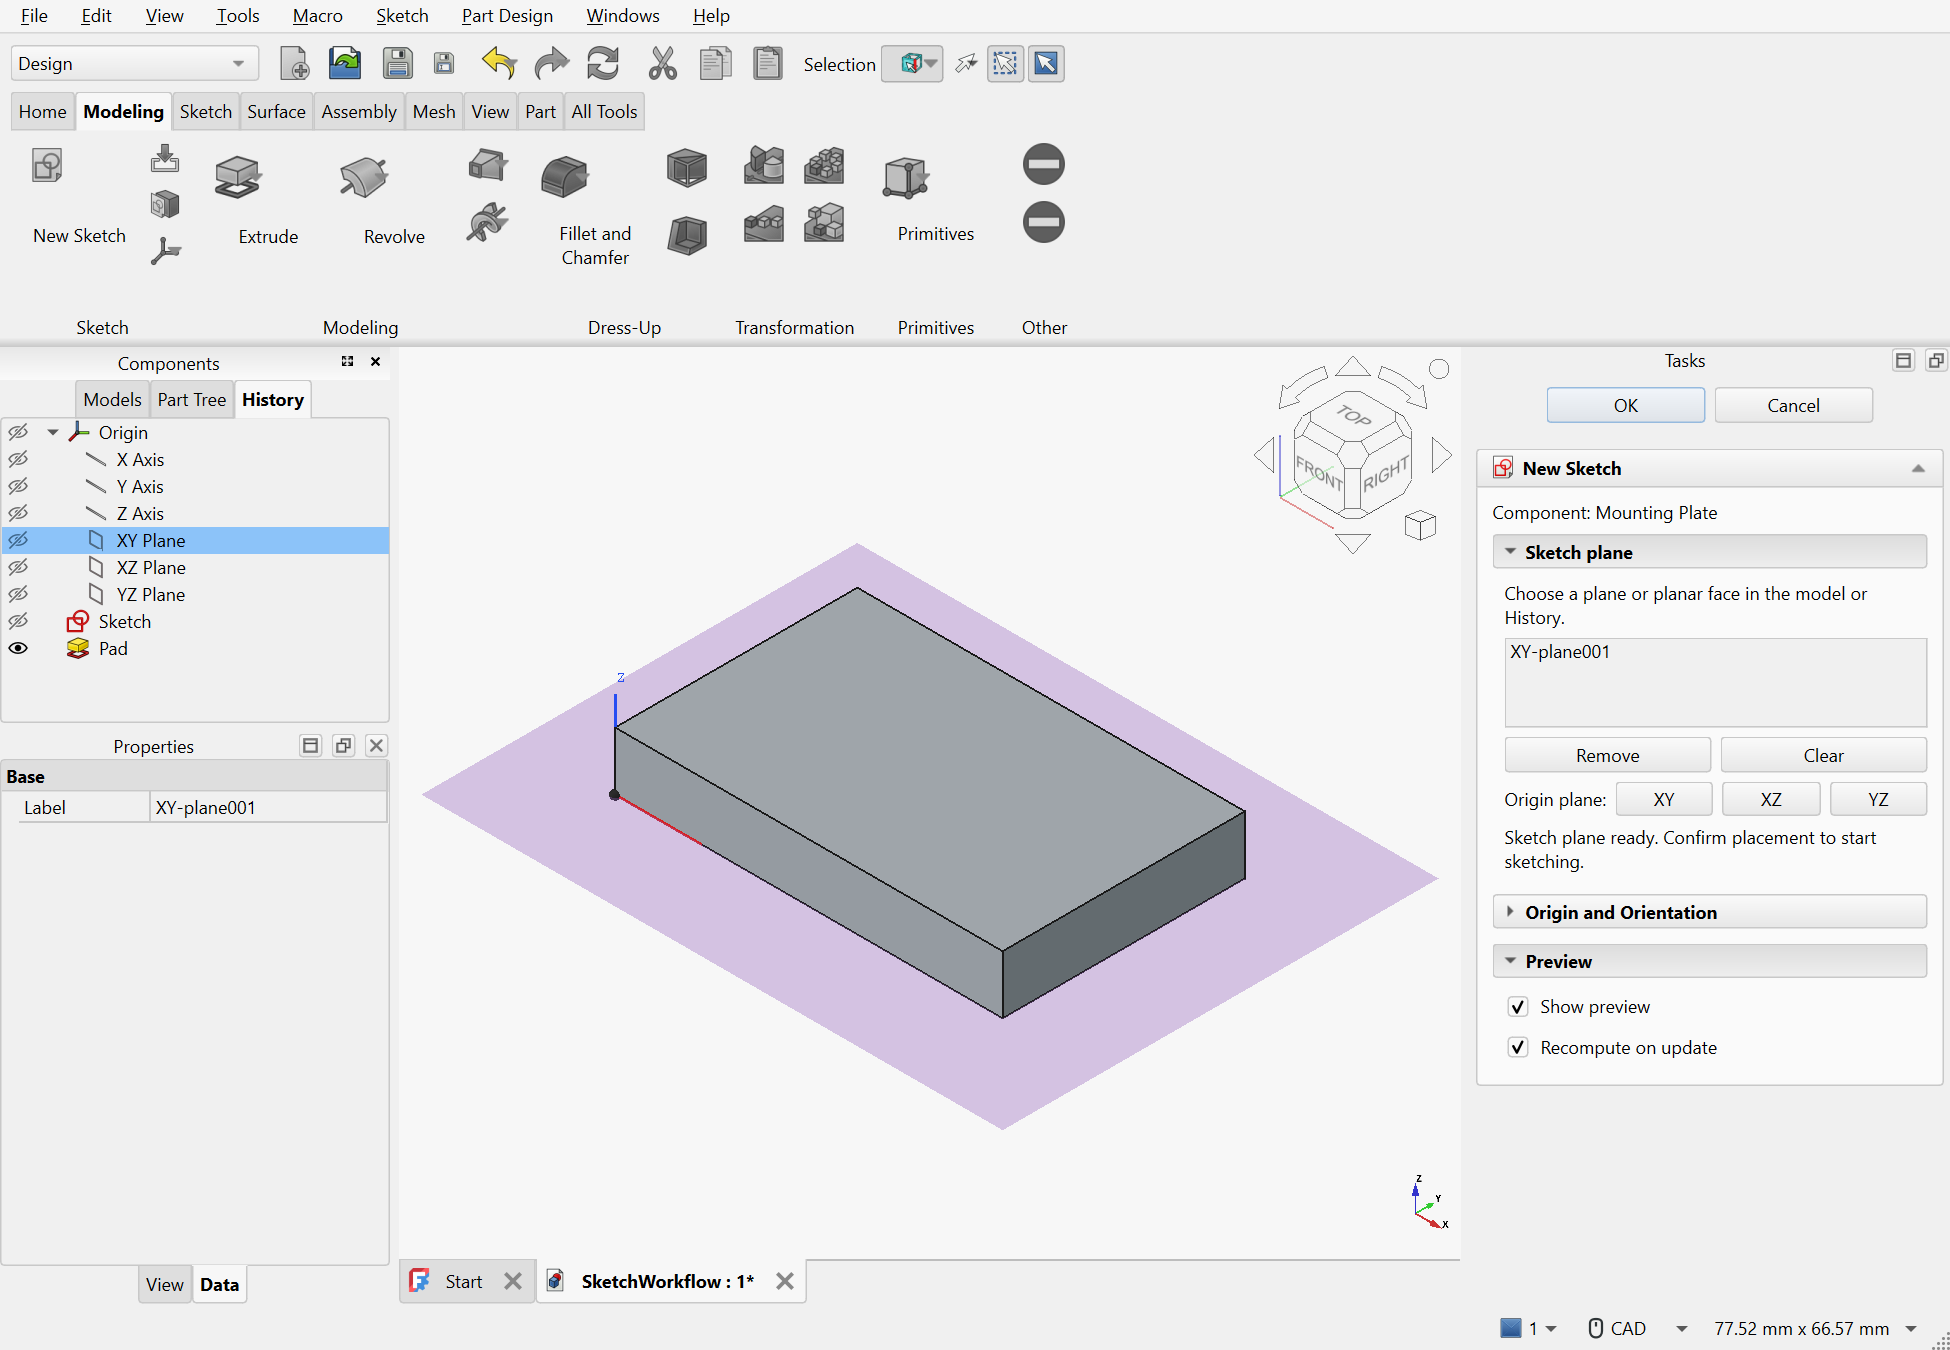
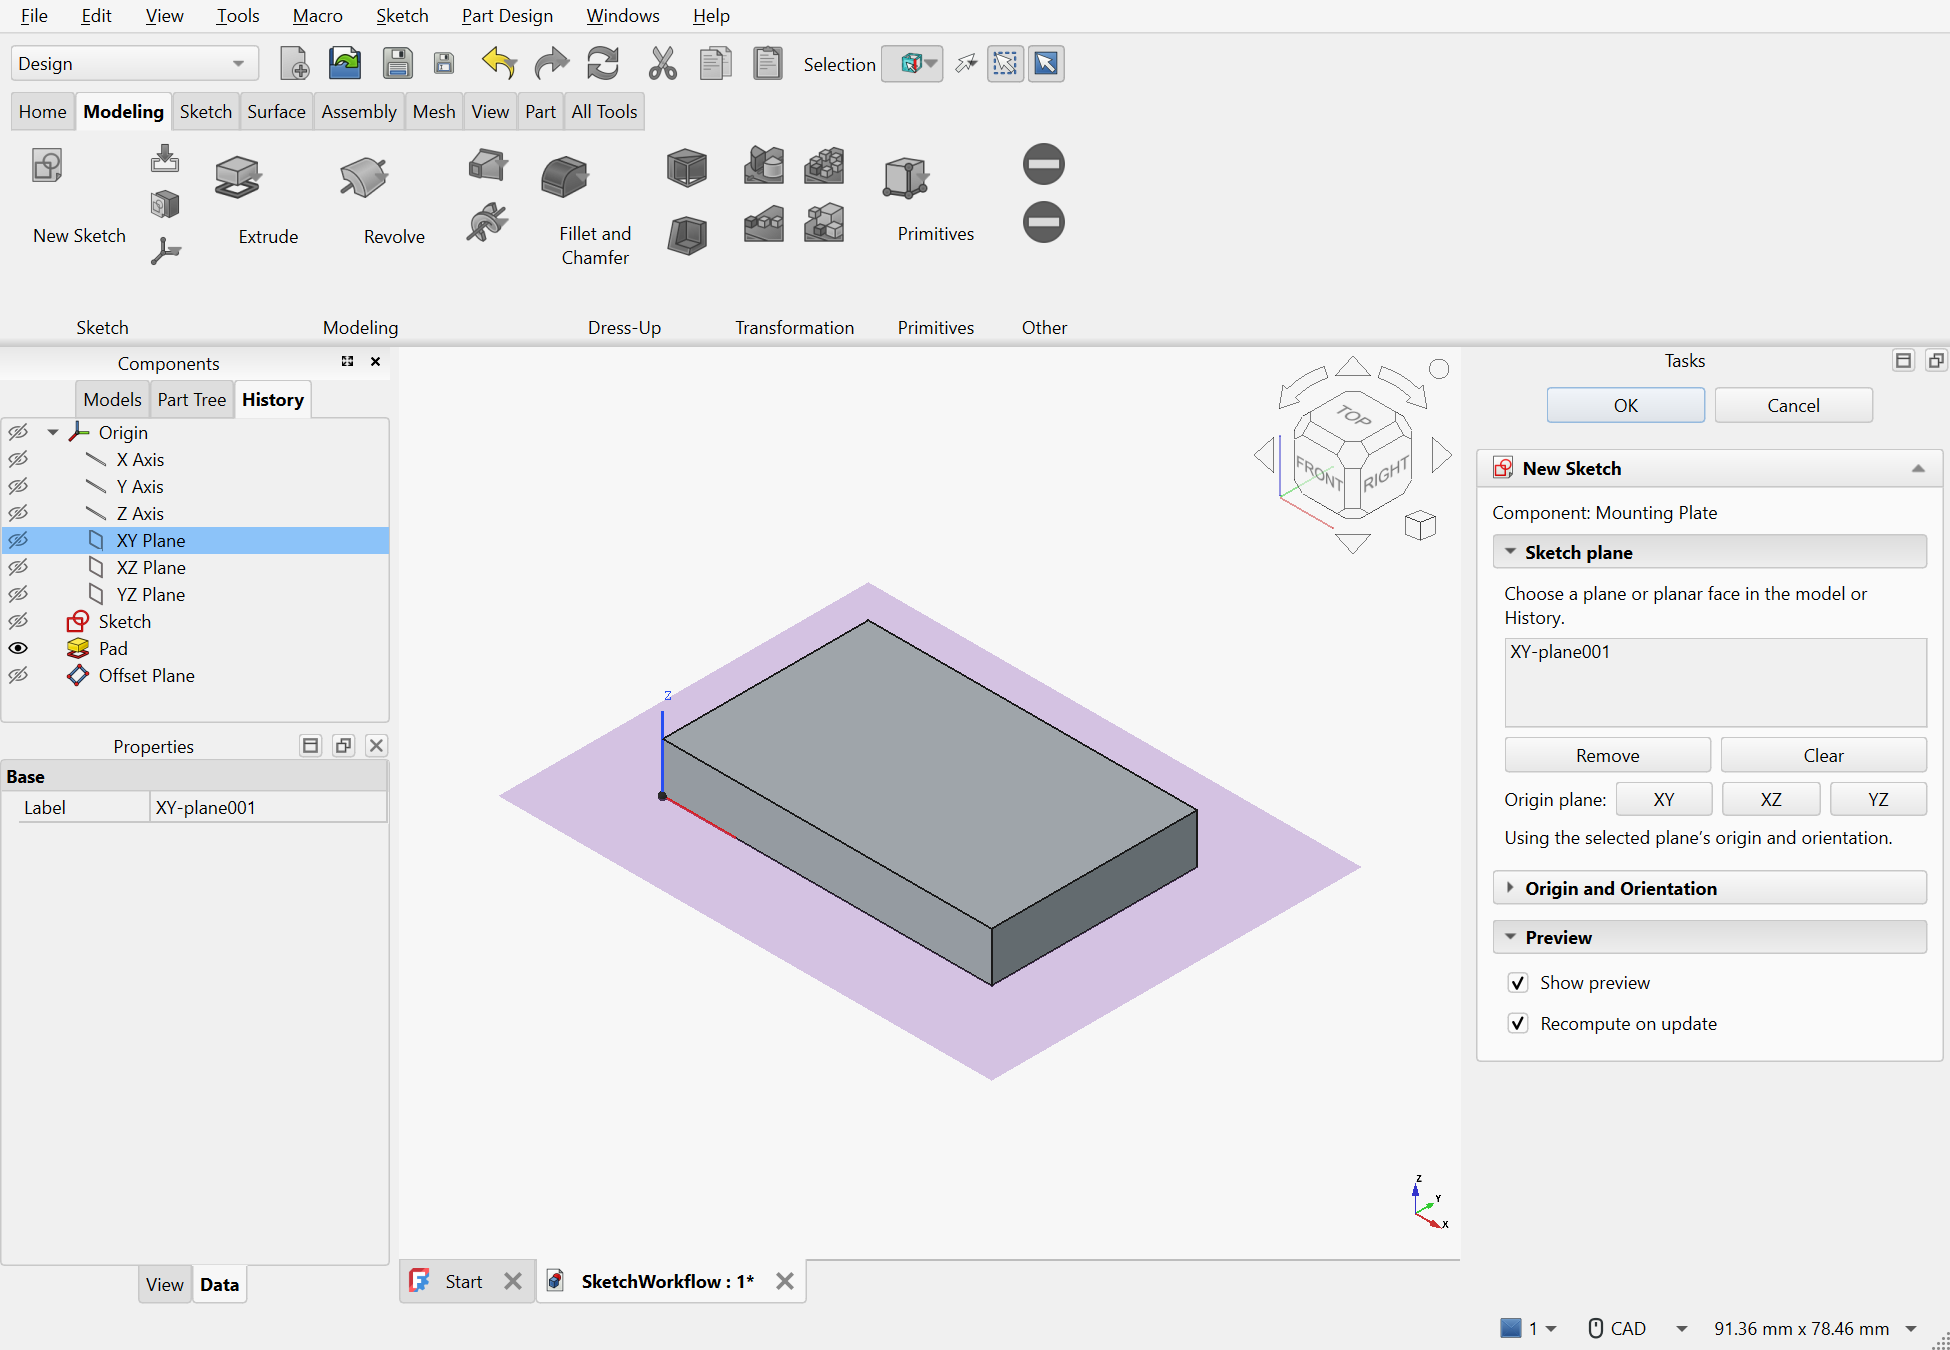
Document automatic sketch frame defaults preview

diff --git a/ai-instructions/ui-ux-specs/TASK_PANEL.md b/ai-instructions/ui-ux-specs/TASK_PANEL.md
@@ -78,6 +78,14 @@ The sketch lies on the selected support. Proposed OK creates the sketch and proc
 to native drawing/constraint editing; Cancel creates nothing. Placement editing must
 reuse this same task with saved inputs under the shared create/edit rule.
 
+Owner refinement: choosing a plane automatically inherits its origin and complete
+orientation. Choosing a planar face instead projects the part-local origin and
+part X axis onto that face. The existing fields show readable automatic reference
+labels, without coordinates or vectors. Explicit point/direction overrides remain
+available; clearing an override restores the support-dependent default. If part X
+is perpendicular to the face, its zero-length projection requires an explicit axis
+selection. These sketch defaults do not change the New Plane origin rule.
+
 The proposal accepts one plane or planar face. Multiple preselected references are
 shown without silently choosing one; the user removes extras to obtain a valid
 support. References retain native mapped identities but display readable face names.
@@ -85,15 +93,18 @@ No new production sketch-creation or placement-editing integration is implemente
 The native candidate uses existing read-only plane/frame calculation and a transient
 overlay; its OK action is a simulation and does not create a sketch, plane or Body.
 
-Preview approval is pending: session `c01f5acbdf83`, seed
+Preview approval is pending: revised session `a2bc3ec0e274` supersedes `c01f5acbdf83`, seed
 `f4fe8fd90a4b432e238d95aca4a62b7b11f89f12`, candidate fingerprint
[2 lines of base64/hex data omitted]
 Direct renders: [current attachment dialog](evidence/sketch-task-20261121/baseline.png),
 [preselected face](evidence/sketch-task-20261121/preselected-face.png),
 [origin/orientation](evidence/sketch-task-20261121/origin-orientation.png),
+[inherited plane frame](evidence/sketch-task-20261121/inherited-plane.png),
 [preselected History plane](evidence/sketch-task-20261121/history-plane.png).
 [Prototype checks](evidence/sketch-task-20261121/prototype.json) verify face/History
-preselection, preservation of multiple selections, invalid empty support and no
+preselection, translated/rotated plane frame inheritance, part-local face defaults
+under a moved/rotated part, restoring defaults, degenerate projection feedback and
+recovery, preservation of multiple selections, invalid empty support and no
 model-object creation. No tool approval state has been modified. This new owner
 direction supersedes conflicting unconfirmed New Sketch proposals below.
 

diff --git a/ai-instructions/WORK_STATE.md b/ai-instructions/WORK_STATE.md
@@ -7,6 +7,10 @@ sketch creation, with preselection populated on task entry. An isolated native
 task prototype follows the implemented New Plane layout. Face and History-plane
 preselection checks passed, including readable mapped-face labels; ambiguous or
 empty selections require correction. The preview creates no model objects.
+The revised preview automatically inherits a selected plane's frame, or projects
+the part-local origin and X axis onto a planar face. Native prototype checks passed
+for a translated/rotated plane, transformed part, clearing an origin override, and
+requiring an explicit direction when the part-X projection vanishes.
 The [owning task specification](ui-ux-specs/TASK_PANEL.md#new-sketch-placement-workflow--november-21-2026)
 records direct screenshots and the exact candidate. Approval and production
 integration are pending; the installed New Sketch command is unchanged.
